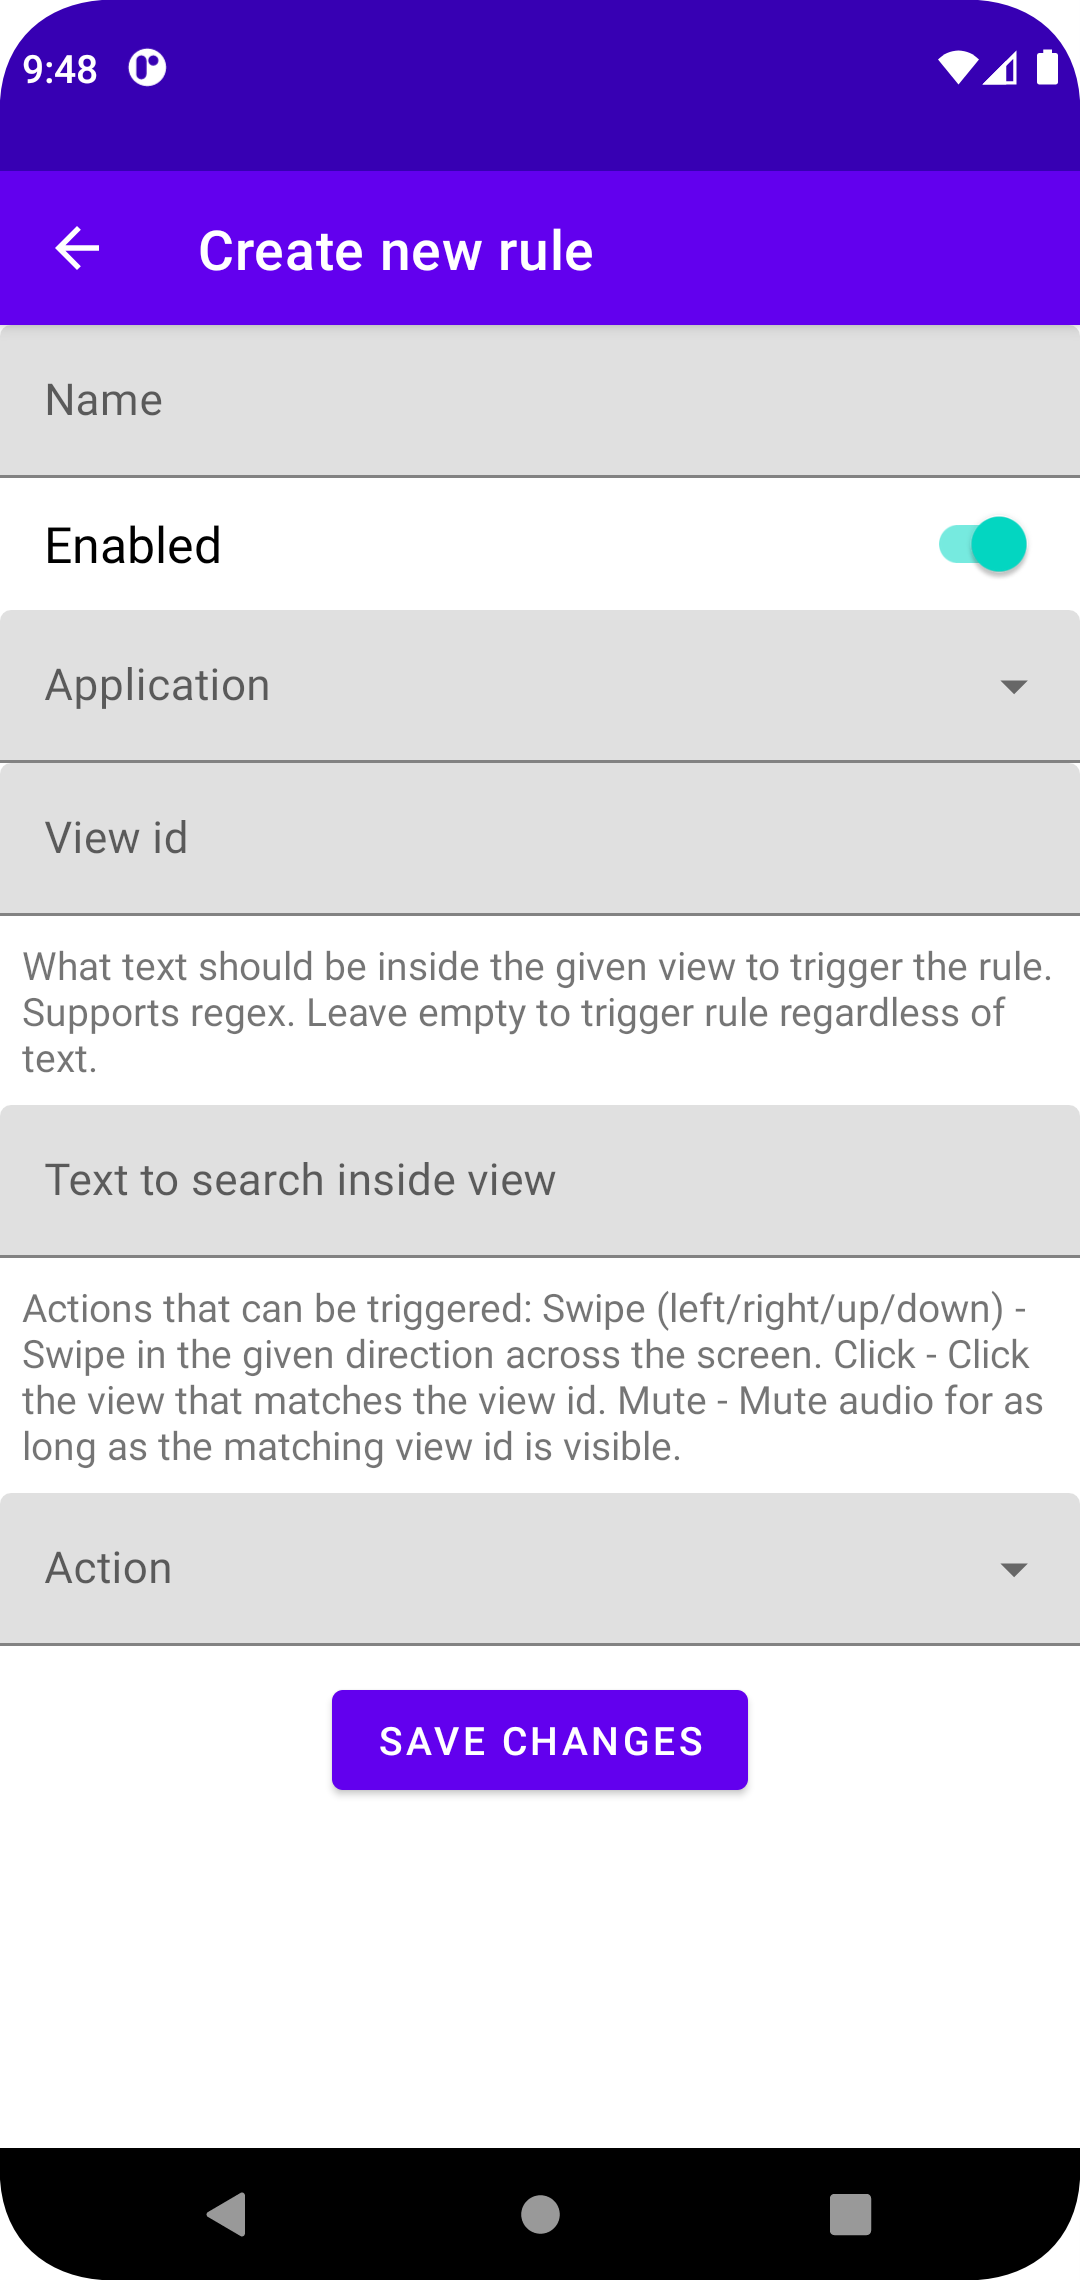
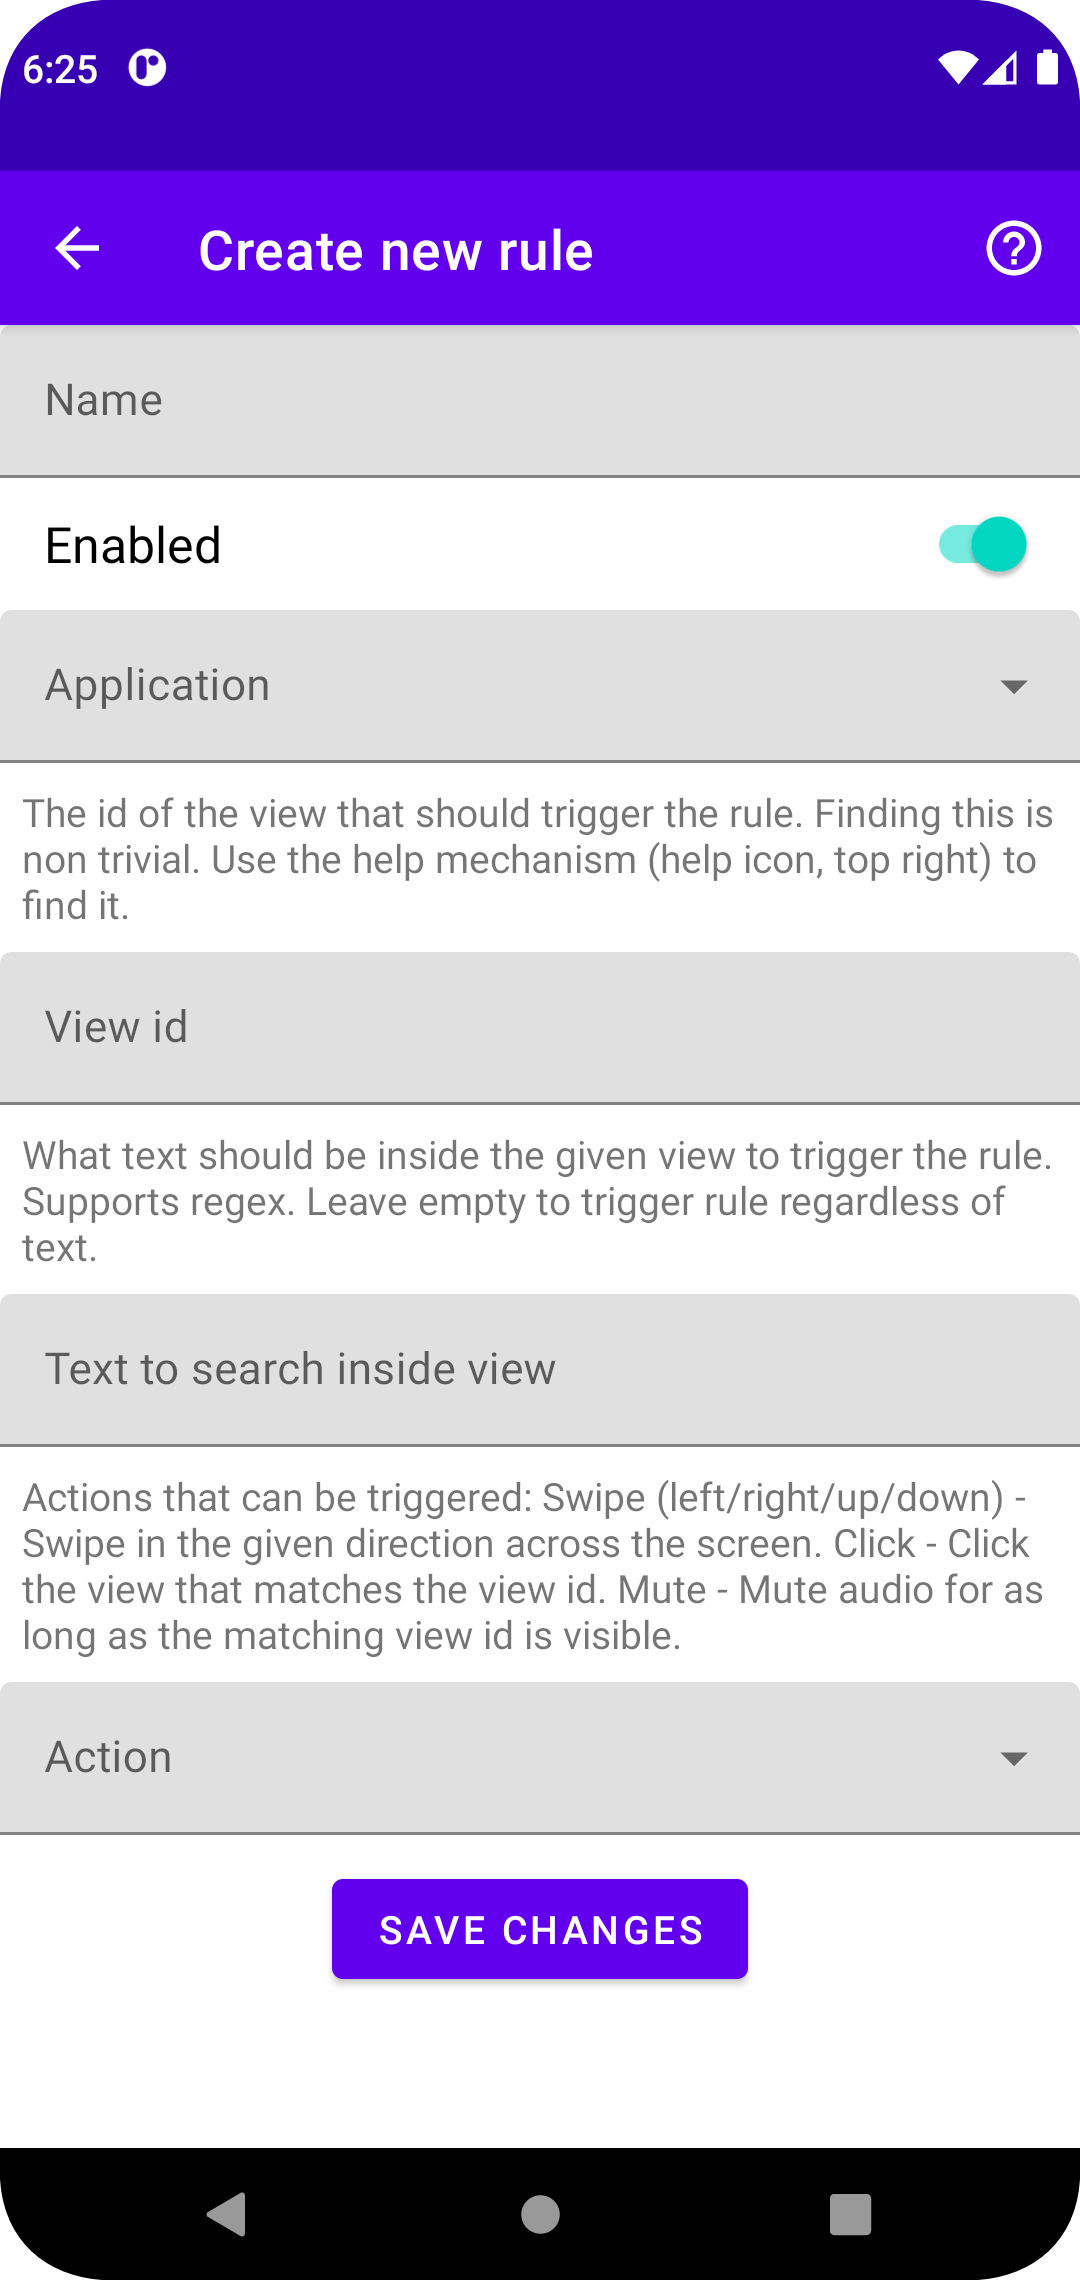
doc: document and explain new rule helper

diff --git a/README.md b/README.md
@@ -26,13 +26,14 @@ The following paragraphs uses the notion of a _rule_. Rules are a way to customi
 4. Fill in the details of the new rule.
     - Name: The name of the rule. Has no effect on the functionality and is only for you to differentiate between different rules.
     - Enabled: Rules can be enabled or disabled. Disabled rules will never trigger an action.
-    - Application: Select the application for whitch the rule should act. The list contains every installed app on your phone. For convenience the app icon is also showed.
-    - View id: This is the tricky part. You propably don't have access to the android source code and the layout xml of the app you target. Maybe you could reverse engineer the apk file of it with tools like [dex2jar](https://github.com/pxb1988/dex2jar), [Apktool](https://ibotpeaches.github.io/Apktool/) or (Java Decompiler)[https://java-decompiler.github.io/]. For the future a feature for this app is planned that allows for finding this view ids. For now see the list further down for example rules that work.
-    - Text to search inside view: Optionally the rule can be made to only trigger when a specific text is found. this is useful when the target view id is often visible but not always for _unwanted_ usages like ads. Supports regular expressions. Leave empty to trigger rule always.
+    - Application: Select the application for which the rule should act. The list contains every installed app on your phone. For convenience the app icon is also showed.
+    - View id: This is the tricky part. You probably don't have access to the android source code or the layout xml of the app you target. Maybe you could reverse engineer the apk file of it with tools like [dex2jar](https://github.com/pxb1988/dex2jar), [Apktool](https://ibotpeaches.github.io/Apktool/) or (Java Decompiler)[https://java-decompiler.github.io/]. Since the last update, a helper mechanism is integrated. See next paragraph for its usage.
+    - Text to search inside view: Optionally the rule can be made to only trigger when a specific text is found. This is useful when the target view is often visible but not always for _unwanted_ usages like ads. Supports regular expressions. Leave empty to trigger rule always.
     - Action: This is the action the a11y service is performing whenever the rule is triggered. Available are:
         - Swipe (left/right/up/down): Swipes in the given direction over 50% of the screen.
         - Click: Clicks on the nearest element on screen that in clickable.
         - Mute: As long as the triggering view id is found the media output is muted. After its gone, the media is automatically unmuted. If this somehow gets stuck, just press one of the volume buttons to unmute manually.
+    - Note: See the list further down for example rules that work.
 5. Safe the new rule by clicking on _Save changes_.
 6. The initial list of rules is showed again. But this time the list isn't empty but has the newly created rule. [<center><img src="./doc/images/screenshot_app_with_instagram_rule.png" width="20%"/></center>](./doc/images/screenshot_app_with_instagram_rule.png)
 - Tapping on the rule opens an activity to edit it in the same way as when the rule was created.
@@ -40,13 +41,26 @@ The following paragraphs uses the notion of a _rule_. Rules are a way to customi
 - To delete a rule, tap on it and click the bottom _Delete rule_ button.
 - All enabled rules are picked up by the background a11y service and triggered when the conditions match.
 
+### Rule Helper
+The rule helper is a small helper that allows you to easily create rules. It is accessible by tapping the __?__ button in the top right corner while creating or editing a rule. It helps you to find values for __app name__, __view id__ and __view text__. Because those are non trivial to find with no access to the application sourcecode.
+1. Start by editing an existing rule or creating a new one.
+2. Tap on the __?__ button in the top right corner.
+3. The helper will launch and show you a explanatory dialog. It asks you to confirm the activation of the helper mechanisms with a click on __Activate__. Do so. [<center><img src="./doc/images/screenshot_helper_dialog.png" width="20%"/></center>](./doc/images/screenshot_helper_dialog.png)
+4. After activation, the AdAid app will minimize itself and bring you back to your home screen. It also creates a notification that when tapping would bring you back to the rule helper. Sometimes, primarily on newer android versions, the notification is not shown. In that case, ensure that __do not disturb__ mode is not enabled and / or check the notification permissions (Something along the lines of `Settings -> Apps -> AdAid -> Manage notifications -> Enable`).
+5. Navigate to the app you want to create a rule for. For the sake of this example we will use the Clock app. [<center><img src="./doc/images/screenshot_helper_app.png" width="20%"/></center>](./doc/images/screenshot_helper_app.png)
+6. When the view you want to manipulate and create a rule for is visible, tap on the mentioned notification. In our example we want to automatically enable all alarms i.e. click on the sliders. As the slider is already visible we can open the notification drawer and tap the notification. [<center><img src="./doc/images/screenshot_helper_notification.png" width="20%"/></center>](./doc/images/screenshot_helper_notification.png)
+7. The rule helper is brought to the foreground and presents you a list of all views (with id and text) that were visible on screen before the notification was tapped. The hierarchy of the views is represented with an increasing indentation. Not all views have a view id. Those that have none are listed with __--no id--__ and only serve the purpose of representing the hierarchy. [<center><img src="./doc/images/screenshot_helper_capture2.png" width="20%"/></center>](./doc/images/screenshot_helper_capture2.png)
+8. Select a view from the list and click on it. Selecting could be made with the strategy of looking at the text you saw in the app (for example _Skip Ad_) or for an id that has a meaningful name (for example _skip_ad_button_, [developers seem to be terribly honest :)]). For the Clock example we would choose the view with id _onoff_ as it seems to indicate a slider.
+9. After clicking the view in the list, the helper will close and you will be back at the rule edit or creation screen. But now the values for __app name__, __view id__ and __view text__ are filled in. In our example those values would be _com.android.deskclock_, _onoff_ and _OFF_.
+- Please note that not all views are represented in the hierarchy the a11y service receives from the android system. This could either be because the app implemented custom views that don't provide the recommended a11y information, or the view was deemed not important for a11y purposes and was left out explicitly by the app developer(s). For example the YouTube app and its new _Shorts_ video content: When instead of an actual short an advertisement is shown, the a11y information is incomplete / sparse and therefore it is not possible to detect and react to that. (Maybe that's intentional, but I don't know.)
+
 ### Example Rules
 | Name            | App                        | View id              | Text          | Action     | Note | See in action |
 |-----------------|----------------------------|----------------------|---------------|------------|------|---------------|
-| Instagram Story | com.instagram.android      | reel_viewer_subtitle | `Sponsored.*` | Swipe left |      | [recording](./doc/videos/instagram.mp4) |
-| Instagram Reel  | com.instagram.android      | subtitle_text        | `Sponsored.*` | Swipe up   |      |               |
-| YouTube Click   | com.google.android.youtube | skip_ad_button_text  | `.*[sS]kip.*` | Click      |      | [recording](./doc/videos/youtube.mp4) |
-| YouTube Mute    | com.google.android.youtube | ad_progress_text     |               | Mute       |      |               |
+| Instagram Story | com.instagram.android      | reel_viewer_subtitle | `Sponsored.*` | Swipe left | Swipes sponsored stories away. | [recording](./doc/videos/instagram.mp4) |
+| Instagram Reel  | com.instagram.android      | subtitle_text        | `Sponsored.*` | Swipe up   | Swipes sponsored reels away. |               |
+| YouTube Click   | com.google.android.youtube | skip_ad_button_text  | `.*[sS]kip.*` | Click      | As soon as the ad(s) can be skipped (~5 s) they are skipped. | [recording](./doc/videos/youtube.mp4) |
+| YouTube Mute    | com.google.android.youtube | ad_progress_text     |               | Mute       | For the duration of ad(s) the media output is muted. |               |
 
 ## License
 [MIT](LICENSE) © [N. Leuenberger](mailto:leuen4@bfh.ch), [A. Reusser](mailto:reusa1@bfh.ch).
